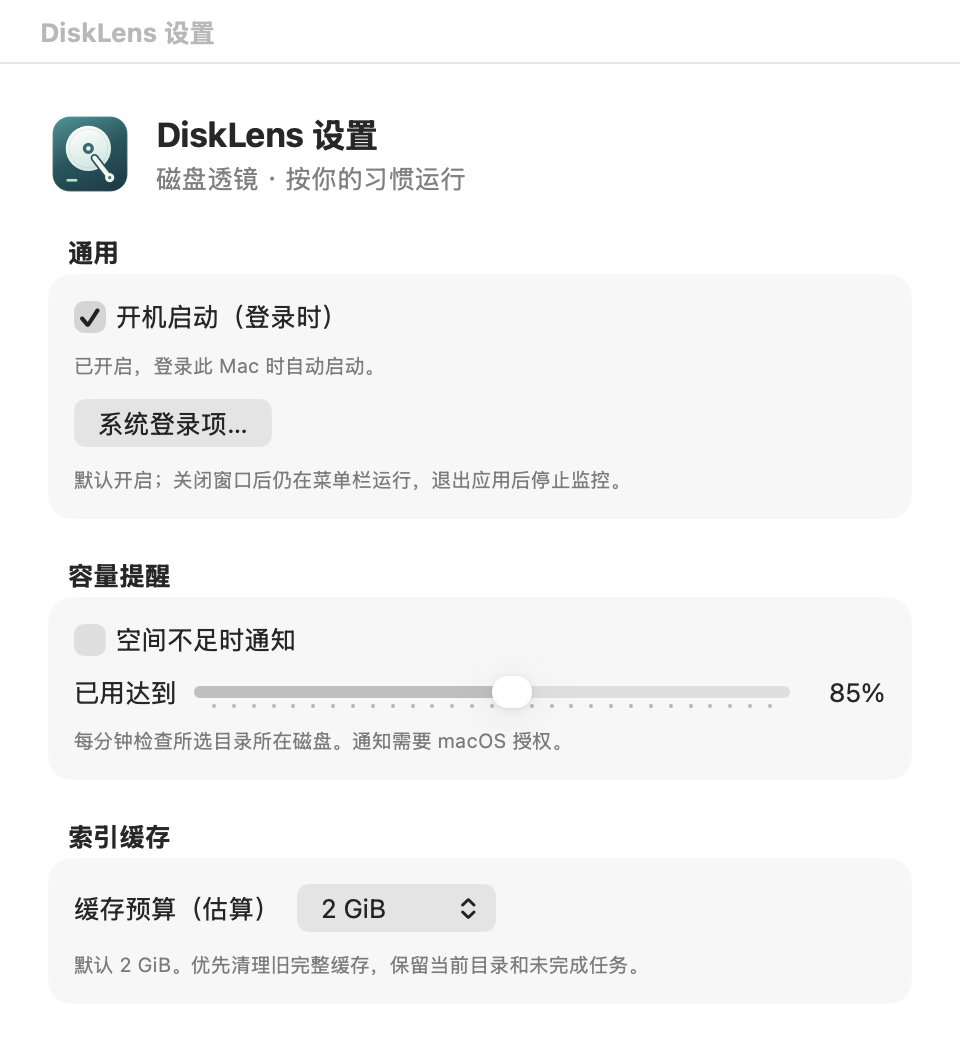
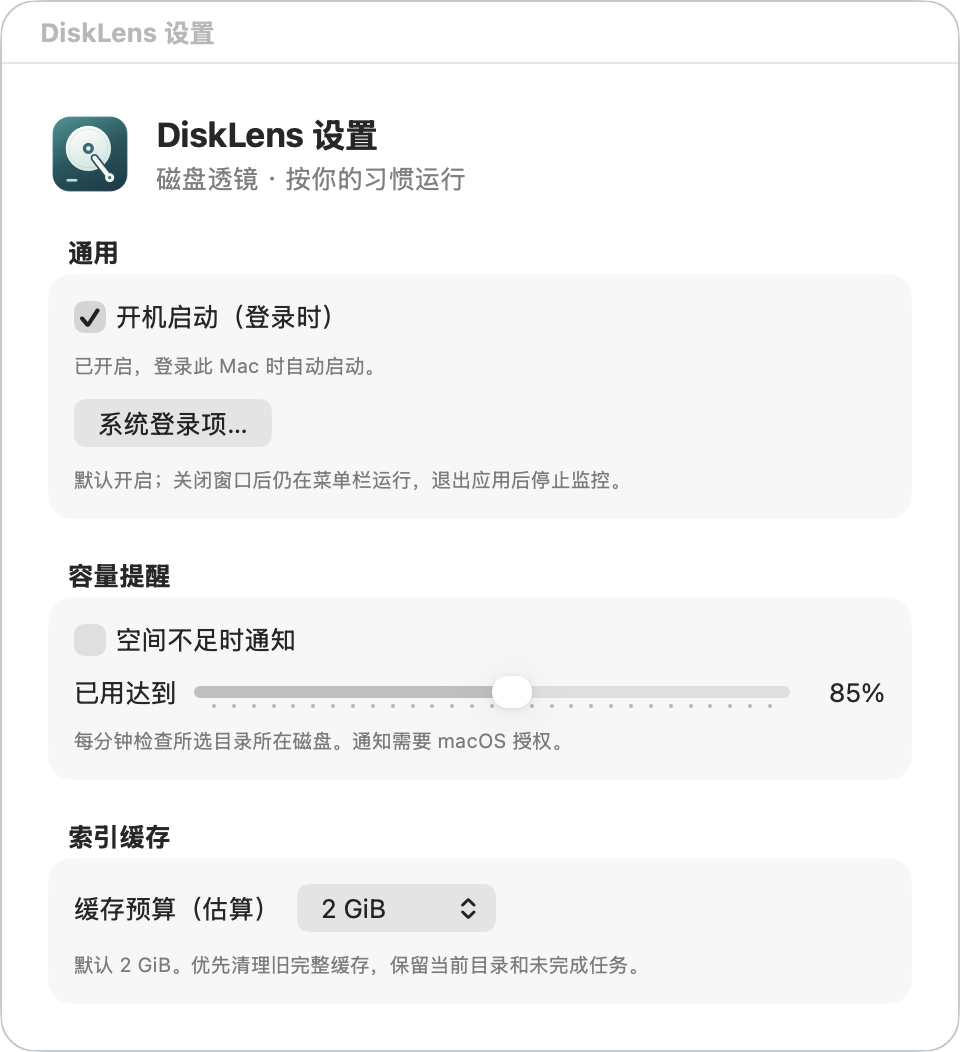
chore: add border styling for the screenshot

diff --git a/scripts/FrameScreenshot.swift b/scripts/FrameScreenshot.swift
@@ -1,0 +1,41 @@
+import CoreGraphics
+import Foundation
+import ImageIO
+import UniformTypeIdentifiers
+
+@main struct FrameScreenshot {
+    static func main() throws {
+        guard CommandLine.arguments.count == 3,
+              let source = CGImageSourceCreateWithURL(URL(fileURLWithPath: CommandLine.arguments[1]) as CFURL, nil),
+              let image = CGImageSourceCreateImageAtIndex(source, 0, nil),
+              let context = CGContext(data: nil, width: image.width, height: image.height,
+                                      bitsPerComponent: 8, bytesPerRow: image.width * 4,
+                                      space: image.colorSpace ?? CGColorSpace(name: CGColorSpace.sRGB)!,
+                                      bitmapInfo: CGImageAlphaInfo.premultipliedLast.rawValue | CGBitmapInfo.byteOrder32Big.rawValue),
+              let data = context.data else {
+            throw NSError(domain: "FrameScreenshot", code: 1,
+                          userInfo: [NSLocalizedDescriptionKey: "Usage: frame-screenshot input.png output.png (RGB PNG)"])
+        }
+        let bounds = CGRect(x: 0, y: 0, width: image.width, height: image.height)
+        context.draw(image, in: bounds)
+        let pixels = data.assumingMemoryBound(to: UInt8.self)
+        // Infer the existing rounded corner; preserve the screenshot's color space.
+        let radius = (0..<image.width / 2).first { pixels[$0 * 4 + 3] > 127 } ?? 0
+        let dark = pixels[(image.width / 2) * 4] < 128
+        let components: [CGFloat] = dark ? [0.29, 0.33, 0.38, 1] : [0.76, 0.79, 0.82, 1]
+        context.setStrokeColor(CGColor(colorSpace: CGColorSpace(name: CGColorSpace.sRGB)!, components: components)!)
+        // Source-atop keeps transparent corners and does not expand the image.
+        context.setBlendMode(.sourceAtop)
+        context.setLineWidth(2)
+        context.addPath(CGPath(roundedRect: bounds.insetBy(dx: 1, dy: 1),
+                               cornerWidth: CGFloat(max(0, radius - 1)), cornerHeight: CGFloat(max(0, radius - 1)), transform: nil))
+        context.strokePath()
+        guard let framed = context.makeImage(),
+              let output = CGImageDestinationCreateWithURL(URL(fileURLWithPath: CommandLine.arguments[2]) as CFURL,
+                                                          UTType.png.identifier as CFString, 1, nil) else {
+            throw NSError(domain: "FrameScreenshot", code: 2)
+        }
+        CGImageDestinationAddImage(output, framed, nil)
+        guard CGImageDestinationFinalize(output) else { throw NSError(domain: "FrameScreenshot", code: 3) }
+    }
+}

diff --git a/CONTRIBUTING.md b/CONTRIBUTING.md
@@ -39,6 +39,8 @@ bash scripts/update-screenshots.sh
 
 该命令只执行主界面与设置的两组定向检查，随后更新 `docs/preview.png`、`docs/screenshots/` 和 `docs/icon.png`。设置页使用替身登录服务，不修改系统登录项；不会扫描用户目录。截图会短暂显示演示窗口，运行后应检查文字、布局、深浅模式与隐私，再提交资源。
 
+文档截图会自动添加适配深浅背景的细描边，保留原始圆角与透明区域；描边写入 PNG，因此 GitHub 的中英文 README 均可直接显示，无需依赖 HTML 样式。未加描边的原图保存在 `.build/documentation-previews/`。
+
 只需捕获主界面进行开发检查时，可运行：
 
 ```sh
